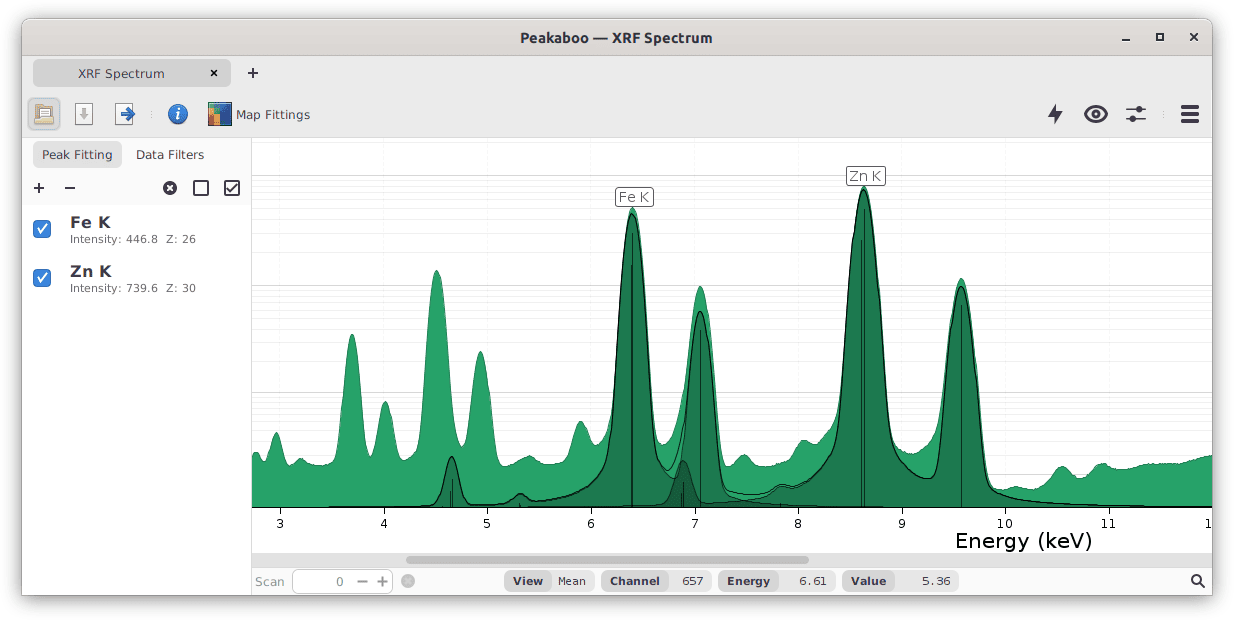
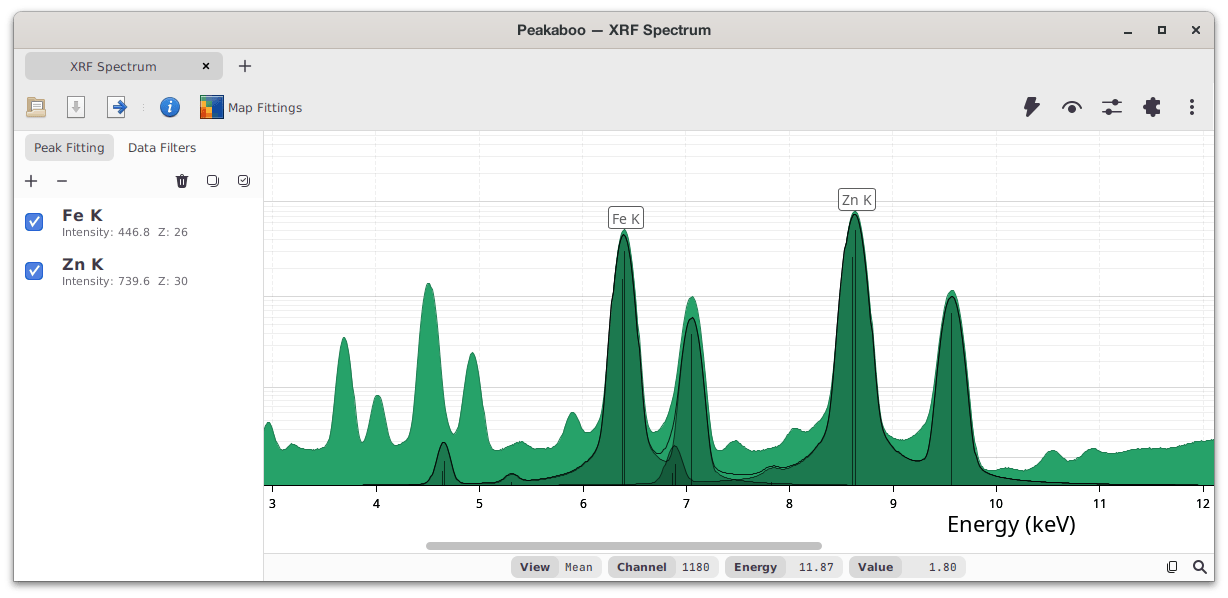
Updates for v6.1

Changed region(s): [[0.0, 0.0, 0.9902, 0.9933]]

diff --git a/public/download.html b/public/download.html
@@ -61,54 +61,54 @@
         <div class="container">
             <h1>Downloads</h1>
           
-<p>The current release is <strong>Peakaboo 6.0</strong></p>
+<p>The current release is <strong>Peakaboo 6.1</strong></p>
 <p>Peakaboo is available for a number of Operating Systems. Choose yours from the options below.</p>
 <p><span class="downloads">
 
 <span class="download-icon">
-<a href="https://github.com/nsherry4/Peakaboo/releases/download/v6.0/Peakaboo-6.0.exe">
+<a href="https://github.com/nsherry4/Peakaboo/releases/download/v6.1/Peakaboo-6.1.exe">
 <img src="/assets/dl/win.png" alt="" /><br/>
 <span class="download-icon-label">Windows</span>
 </a>
 </span>
      
 <span class="download-icon">
-<a href="https://github.com/nsherry4/Peakaboo/releases/download/v6.0/peakaboo_6.0_amd64.deb">
+<a href="https://github.com/nsherry4/Peakaboo/releases/download/v6.1/peakaboo_6.1_amd64.deb">
 <img src="/assets/dl/ubuntu.png" alt="" /><br/>
 <span class="download-icon-label">Ubuntu/Debian</span>
 </a>
 </span>
      
 <span class="download-icon">
-<a href="https://github.com/nsherry4/Peakaboo/releases/download/v6.0/peakaboo-6.0-1.x86_64.rpm">
+<a href="https://github.com/nsherry4/Peakaboo/releases/download/v6.1/peakaboo-6.1-1.x86_64.rpm">
 <img src="/assets/dl/fedora.png" alt="" /><br/>
 <span class="download-icon-label">Fedora/Red Hat</span>
 </a>
 </span>
      
 <span class="download-icon">
-<a href="https://github.com/nsherry4/Peakaboo/releases/download/v6.0/Peakaboo-6.0-Silicon.dmg">
+<a href="https://github.com/nsherry4/Peakaboo/releases/download/v6.1/Peakaboo-6.1-Silicon.dmg">
 <img src="/assets/dl/macos.png" alt="" /><br/>
 <span class="download-icon-label">MacOS (Apple)</span>
 </a>
 </span>
 
 <span class="download-icon">
-<a href="https://github.com/nsherry4/Peakaboo/releases/download/v6.0/Peakaboo-6.0-Intel.dmg">
+<a href="https://github.com/nsherry4/Peakaboo/releases/download/v6.1/Peakaboo-6.1-Intel.dmg">
 <img src="/assets/dl/macos.png" alt="" /><br/>
 <span class="download-icon-label">MacOS (Intel)</span>
 </a>
 </span>
      
 <span class="download-icon">
-<a href="https://github.com/nsherry4/Peakaboo/releases/download/v6.0/Peakaboo-6.0.jar">
+<a href="https://github.com/nsherry4/Peakaboo/releases/download/v6.1/Peakaboo-6.1.jar">
 <img src="/assets/dl/jar.png" alt="" /><br/>
 <span class="download-icon-label">Runnable Jar</span>
 </a>
 </span>
      
 <span class="download-icon">
-<a href="https://github.com/nsherry4/Peakaboo/archive/refs/tags/v6.0.zip">
+<a href="https://github.com/nsherry4/Peakaboo/archive/refs/tags/v6.1.zip">
 <img src="/assets/dl/source.png" alt="" /><br/>
 <span class="download-icon-label">Source Code</span>
 </a>
@@ -124,8 +124,7 @@
 </span></p>
 
 <h2>Plugins</h2>
-<p>Plugins are software components which are used by Peakaboo to extend Peakaboo’s functionality. Plugins can add new filters or new file format support to Peakaboo. There are a number of plugins available along with Peakaboo, and anyone with some experience in Java programming can also make their own.</p>
-<p><a href="https://github.com/nsherry4/PeakabooPlugins/releases/latest">Download Plugins</a> from GitHub</p>
+<p>Plugins are software components which are used by Peakaboo to extend Peakaboo’s functionality. Plugins can add new filters or new file format support to Peakaboo. There are a number of plugins available along with Peakaboo, and anyone with some experience in Java programming can also make their own. Official plugins can be accessed from Peakaboo's plugins screen.</p>
 <h2>Release Notes &amp; Older Releases</h2>
 <p>A complete listing of Peakaboo releases and notes describing the new features in each version can be found on the GitHub <a href="https://github.com/nsherry4/Peakaboo/releases">releases</a> page.</p>
         </div>

diff --git a/public/code.html b/public/code.html
@@ -64,7 +64,7 @@
 <h2>Library and Plugins</h2>
 <p>Peakaboo can also be used as a library. This is also the easiest target to build custom plugins against.</p>
 <h2>Building</h2>
-<p>Peakaboo builds and manages its dependencies with maven. It also has a dependency on <a href="https://github.com/tschoonj/xraylib">xraylib</a>. At the time of writing, xraylib was not available in maven, so a prebuilt version is included in a local maven repository. </p>
+<p>Peakaboo builds and manages its dependencies with maven.</p>
 <p>To build Peakaboo, run <code>mvn package</code> in the project's root directory, and it will produce a runnable jar file you can invoke with the <code>java -jar &lt;JARNAME&gt;</code> command.</p>
         </div>
     </div>